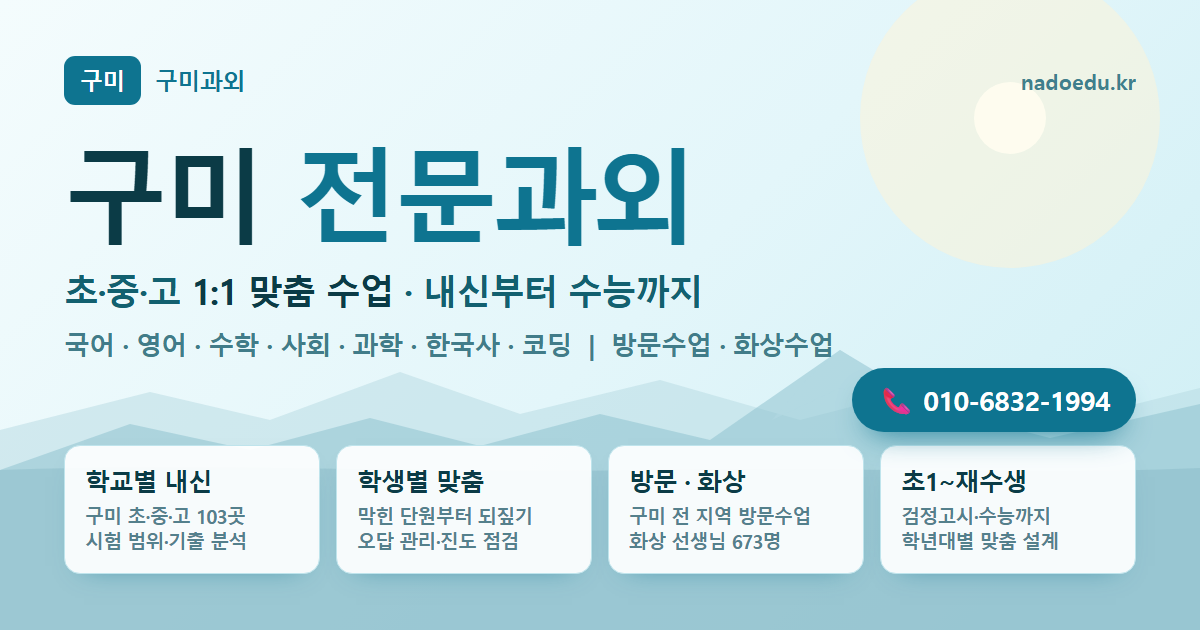
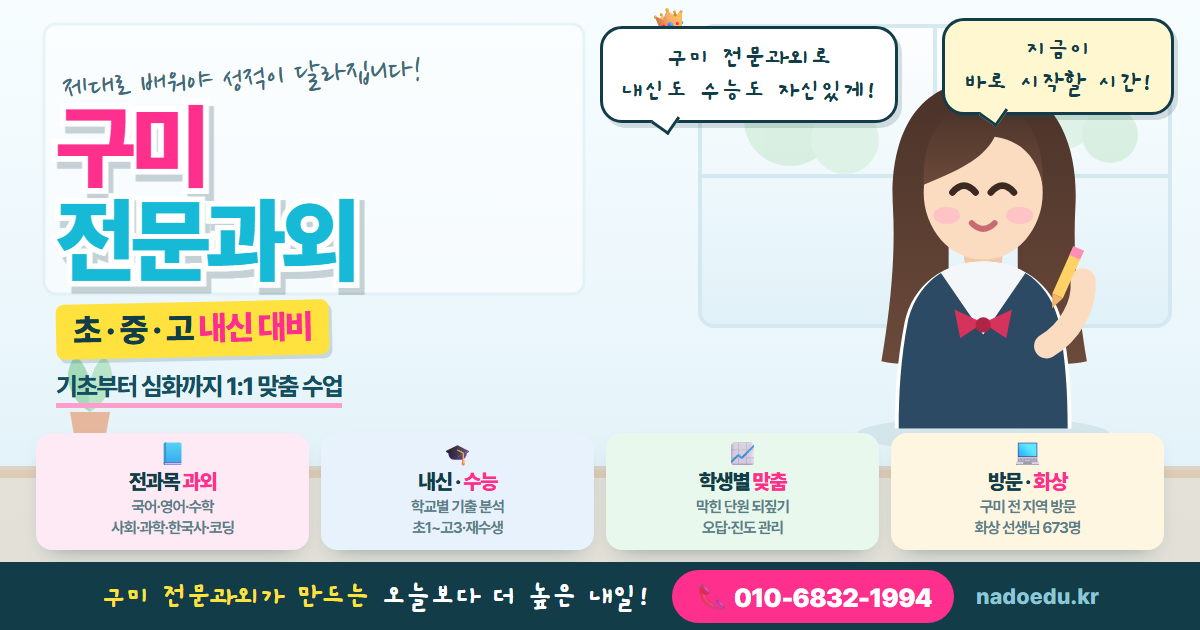
og 배너를 포스터 스타일로 교체
굵은 외곽선 타이틀·형광 밴드·손글씨 말풍선·파스텔 카드·하단 리본
구성으로 다시 만들었다(수학 한정이 아니라 구미 전문과외).
소스는 tools/og배너.html — 크롬 헤드리스로 캡처해서 og.png 를 만든다.

diff --git a/tools/og배너.html b/tools/og배너.html
@@ -1,0 +1,190 @@
+<!DOCTYPE html>
+<html lang="ko">
+<head>
+<meta charset="UTF-8" />
+<link rel="stylesheet" href="https://cdn.jsdelivr.net/gh/orioncactus/pretendard@v1.3.9/dist/web/static/pretendard.min.css" />
+<link href="https://fonts.googleapis.com/css2?family=Nanum+Pen+Script&family=Gaegu:wght@700&display=swap" rel="stylesheet" />
+<style>
+  *{margin:0;padding:0;box-sizing:border-box}
+  html,body{width:1200px;height:630px}
+  body{
+    font-family:"Pretendard","Malgun Gothic",sans-serif;
+    position:relative;overflow:hidden;background:#eef7fb;
+  }
+  .bg{position:absolute;inset:0}
+  .stage{position:relative;width:1200px;height:630px}
+
+  /* ── 타이틀 ── */
+  .title{position:absolute;left:56px;top:56px;width:600px}
+  .kicker{
+    font-family:"Nanum Pen Script",cursive;font-size:36px;color:#3f6b78;
+    transform:rotate(-3deg);margin-left:6px;line-height:1
+  }
+  .big{
+    font-size:92px;font-weight:900;letter-spacing:-4.5px;line-height:1.0;
+    margin-top:8px;
+    -webkit-text-stroke:11px #fff;paint-order:stroke fill;
+    filter:drop-shadow(5px 7px 0 rgba(18,60,72,.22));
+  }
+  .big .l1{color:#ff2f8e;display:block}
+  .big .l2{color:#16b9d6;display:block;margin-top:2px}
+  .band{
+    display:inline-block;margin-top:16px;padding:7px 17px 9px;
+    background:#ffe23d;border-radius:8px;transform:rotate(-1.2deg);
+    font-size:33px;font-weight:900;letter-spacing:-1.6px;color:#123c48;
+    box-shadow:3px 4px 0 rgba(18,60,72,.16);
+  }
+  .band b{color:#ff2f8e}
+  .sub{margin-top:14px;font-size:25px;font-weight:800;letter-spacing:-1.4px;color:#134f5e}
+  .sub .line{display:inline-block;border-bottom:5px solid #ff9ecb;padding-bottom:2px}
+
+  /* ── 말풍선 ── */
+  .bub{
+    position:absolute;background:#fff;border:3px solid #123c48;border-radius:22px;
+    padding:12px 18px;font-family:"Gaegu",cursive;font-weight:700;
+    font-size:27px;color:#123c48;line-height:1.24;text-align:center;
+    box-shadow:4px 5px 0 rgba(18,60,72,.16);
+  }
+  .bub::after{content:"";position:absolute;width:18px;height:18px;background:#fff;
+    border-right:3px solid #123c48;border-bottom:3px solid #123c48;transform:rotate(35deg)}
+  .b1{left:600px;top:26px}
+  .b1::after{left:52px;bottom:-11px}
+  .b2{right:26px;top:18px;background:#fff7cf}
+  .b2::after{background:#fff7cf;left:38px;bottom:-11px}
+  .crown{position:absolute;left:648px;top:-4px;font-size:30px;transform:rotate(-12deg)}
+
+  /* ── 카드 4개 ── */
+  .cards{position:absolute;left:36px;right:36px;bottom:80px;display:grid;
+    grid-template-columns:repeat(4,1fr);gap:12px}
+  .card{background:#fff;border-radius:16px;padding:10px 10px 11px;text-align:center;
+    box-shadow:0 10px 22px -14px rgba(18,60,72,.55)}
+  .c1{background:#fdeaf4}.c2{background:#e7f2fd}.c3{background:#e8f8ec}.c4{background:#fff6e2}
+  .card .ic{font-size:23px;line-height:1}
+  .card .t{margin-top:3px;font-size:21px;font-weight:900;letter-spacing:-1.3px;color:#123c48}
+  .card .t em{font-style:normal;color:#ff2f8e}
+  .card .d{margin-top:3px;font-size:15.5px;font-weight:700;letter-spacing:-.9px;color:#5b7f8a;line-height:1.35}
+
+  /* ── 하단 리본 ── */
+  .ribbon{position:absolute;left:0;right:0;bottom:0;height:68px;background:#123c48;
+    display:flex;align-items:center;justify-content:center;gap:22px}
+  .ribbon .slog{font-family:"Gaegu",cursive;font-weight:700;font-size:31px;color:#ffe23d;letter-spacing:-1px}
+  .ribbon .slog b{color:#fff}
+  .ribbon .tel{background:#ff2f8e;color:#fff;font-size:26px;font-weight:900;
+    padding:9px 22px;border-radius:999px;letter-spacing:-.6px}
+  .ribbon .dom{font-size:22px;font-weight:800;color:#8fc7d6;letter-spacing:.3px}
+</style>
+</head>
+<body>
+<div class="stage">
+<svg class="bg" viewBox="0 0 1200 630">
+  <defs>
+    <linearGradient id="room" x1="0" y1="0" x2="0" y2="1">
+      <stop offset="0" stop-color="#f7fdff"/><stop offset=".55" stop-color="#eaf6fb"/><stop offset="1" stop-color="#d9eef5"/>
+    </linearGradient>
+    <linearGradient id="win" x1="0" y1="0" x2="0" y2="1">
+      <stop offset="0" stop-color="#ffffff"/><stop offset="1" stop-color="#dff1f8"/>
+    </linearGradient>
+    <linearGradient id="hair" x1="0" y1="0" x2="0" y2="1">
+      <stop offset="0" stop-color="#4a3229"/><stop offset="1" stop-color="#6b4a3a"/>
+    </linearGradient>
+  </defs>
+  <rect width="1200" height="630" fill="url(#room)"/>
+
+  <!-- 창문 -->
+  <g opacity=".85">
+    <rect x="700" y="26" width="470" height="300" rx="14" fill="url(#win)" stroke="#cfe6ee" stroke-width="4"/>
+    <line x1="935" y1="26" x2="935" y2="326" stroke="#cfe6ee" stroke-width="4"/>
+    <line x1="700" y1="176" x2="1170" y2="176" stroke="#cfe6ee" stroke-width="4"/>
+  </g>
+  <!-- 창밖 초록 -->
+  <g opacity=".5">
+    <circle cx="790" cy="120" r="46" fill="#bfe6c8"/><circle cx="845" cy="140" r="34" fill="#cdecd4"/>
+    <circle cx="1060" cy="110" r="40" fill="#cdecd4"/><circle cx="1110" cy="135" r="28" fill="#bfe6c8"/>
+  </g>
+  <!-- 화이트보드 -->
+  <rect x="44" y="24" width="540" height="270" rx="12" fill="#ffffff" opacity=".55" stroke="#dcecf2" stroke-width="3"/>
+
+  <!-- 책상 -->
+  <rect x="0" y="470" width="1200" height="160" fill="#e6d3bd" opacity=".55"/>
+  <rect x="0" y="466" width="1200" height="12" fill="#d8c0a4" opacity=".6"/>
+
+  <!-- 화분 -->
+  <g transform="translate(60,352)" opacity=".75">
+    <path d="M30 60 C6 46 2 18 16 4 C30 16 34 40 30 60Z" fill="#8fd3a6"/>
+    <path d="M30 60 C54 46 58 18 44 4 C30 16 26 40 30 60Z" fill="#a9e0ba"/>
+    <path d="M10 60 h40 l-6 34 h-28Z" fill="#e6a37f"/>
+  </g>
+
+  <!-- 책 더미 -->
+  <g transform="translate(96,486)">
+    <rect x="0" y="40" width="150" height="20" rx="5" fill="#7fc4d6"/>
+    <rect x="8" y="20" width="150" height="20" rx="5" fill="#ffd166"/>
+    <rect x="2" y="0"  width="150" height="20" rx="5" fill="#ff8fb8"/>
+  </g>
+
+  <!-- ── 학생 일러스트 ── -->
+  <g transform="translate(868,58) scale(0.96)">
+    <!-- 그림자 -->
+    <ellipse cx="120" cy="392" rx="132" ry="18" fill="#123c48" opacity=".08"/>
+    <!-- 뒷머리 -->
+    <path d="M120 24 C46 24 22 88 26 156 C29 212 22 268 14 316 C40 322 66 318 84 308 L84 150 L156 150 L156 308 C176 318 202 322 228 316 C220 268 213 212 216 156 C220 88 194 24 120 24Z" fill="url(#hair)"/>
+    <!-- 목 -->
+    <rect x="100" y="182" width="40" height="42" rx="16" fill="#f2c9a8"/>
+    <!-- 교복 상의 -->
+    <path d="M120 212 C80 212 46 236 38 276 C30 318 28 350 28 386 L212 386 C212 350 210 318 202 276 C194 236 160 212 120 212Z" fill="#ffffff"/>
+    <path d="M120 212 C104 212 88 216 76 224 L120 286 L164 224 C152 216 136 212 120 212Z" fill="#f4f7fa"/>
+    <!-- 조끼 -->
+    <path d="M76 224 C60 234 48 250 42 272 C34 312 32 350 32 386 L208 386 C208 350 206 312 198 272 C192 250 180 234 164 224 L120 288Z" fill="#2c4a63"/>
+    <!-- 리본 -->
+    <path d="M120 276 l-30 -14 l6 30 Z" fill="#d6335c"/>
+    <path d="M120 276 l30 -14 l-6 30 Z" fill="#d6335c"/>
+    <circle cx="120" cy="278" r="8" fill="#b02546"/>
+    <!-- 얼굴 -->
+    <ellipse cx="120" cy="140" rx="62" ry="70" fill="#fbdcc0"/>
+    <!-- 앞머리 -->
+    <path d="M58 132 C56 74 84 46 120 46 C156 46 184 74 182 132 C176 104 160 86 132 82 C120 106 92 118 58 132Z" fill="url(#hair)"/>
+    <!-- 눈 -->
+    <path d="M88 140 q12 -14 24 0" stroke="#3a2a22" stroke-width="7" fill="none" stroke-linecap="round"/>
+    <path d="M128 140 q12 -14 24 0" stroke="#3a2a22" stroke-width="7" fill="none" stroke-linecap="round"/>
+    <!-- 볼 -->
+    <ellipse cx="82" cy="164" rx="14" ry="9" fill="#ffb3c8" opacity=".6"/>
+    <ellipse cx="158" cy="164" rx="14" ry="9" fill="#ffb3c8" opacity=".6"/>
+    <!-- 입 -->
+    <path d="M108 172 q12 12 24 0" stroke="#c76a72" stroke-width="6" fill="none" stroke-linecap="round"/>
+    <!-- 팔 + 연필 -->
+    <path d="M186 300 C210 286 226 258 224 232" stroke="#fbdcc0" stroke-width="26" fill="none" stroke-linecap="round"/>
+    <g transform="translate(214,196) rotate(24)">
+      <rect x="0" y="0" width="12" height="54" fill="#ffd166"/>
+      <path d="M0 54 h12 l-6 14Z" fill="#f2b56b"/>
+      <rect x="0" y="0" width="12" height="10" fill="#ff8fb8"/>
+    </g>
+  </g>
+</svg>
+
+<span class="crown">👑</span>
+
+<div class="bub b1">구미 전문과외로<br/>내신도 수능도 자신있게!</div>
+<div class="bub b2">지금이<br/>바로 시작할 시간!</div>
+
+<div class="title">
+  <div class="kicker">제대로 배워야 성적이 달라집니다!</div>
+  <div class="big"><span class="l1">구미</span><span class="l2">전문과외</span></div>
+  <div class="band">초 · 중 · 고 <b>내신 대비</b></div>
+  <div class="sub"><span class="line">기초부터 심화까지 1:1 맞춤 수업</span></div>
+</div>
+
+<div class="cards">
+  <div class="card c1"><div class="ic">📘</div><div class="t">전과목 <em>과외</em></div><div class="d">국어·영어·수학<br/>사회·과학·한국사·코딩</div></div>
+  <div class="card c2"><div class="ic">🎓</div><div class="t">내신 · <em>수능</em></div><div class="d">학교별 기출 분석<br/>초1~고3·재수생</div></div>
+  <div class="card c3"><div class="ic">📈</div><div class="t">학생별 <em>맞춤</em></div><div class="d">막힌 단원 되짚기<br/>오답·진도 관리</div></div>
+  <div class="card c4"><div class="ic">💻</div><div class="t">방문 · <em>화상</em></div><div class="d">구미 전 지역 방문<br/>화상 선생님 673명</div></div>
+</div>
+
+<div class="ribbon">
+  <span class="slog">구미 전문과외가 만드는 <b>오늘보다 더 높은 내일!</b></span>
+  <span class="tel">📞 010-6832-1994</span>
+  <span class="dom">nadoedu.kr</span>
+</div>
+</div>
+</body>
+</html>

diff --git a/CLAUDE.md b/CLAUDE.md
@@ -17,7 +17,7 @@
   - 홈 `index.html` — 과목 카드에 `구미 한국사과외` 추가, 그 아래 `구미 중간고사·기말고사와 방학 계획` 블록 추가(중간고사·기말고사·여름방학·겨울방학 키워드).
   - `online.html` 에 구미 읍·면·동 38곳 목록 추가(화상과외 주력 지역).
   - `centers.html` 에 와와학습코칭센터 옥계점 상세(인근 학교·아파트·학년별 코칭) 추가 — 출처는 사용자 소유 사이트 wawaedu.kr.
-  - `og.png` (1200×630 배너) 추가 + 전 페이지 `og:image`·`twitter:image`·`twitter:card=summary_large_image`. 배너 소스는 scratchpad 의 `og.html` 을 크롬 헤드리스로 캡처한 것 — 다시 만들려면 같은 방식으로.
+  - `og.png` (1200×630 배너) 추가 + 전 페이지 `og:image`·`twitter:image`·`twitter:card=summary_large_image`. 배너 소스는 `tools/og배너.html` — 고친 뒤 크롬 헤드리스로 다시 캡처한다: `chrome.exe --headless=new --window-size=1200,630 --virtual-time-budget=6000 --screenshot=og.png file:///.../og배너.html`
   - **메뉴에서 `상담신청` 삭제** — 오른쪽 상단 📞 상담신청 버튼과 중복이라 뺐다. 하단 고정 CTA·푸터 링크는 유지.
   - **`선생님` 메뉴 삭제** — 전 페이지 `nav-links` 에서 뺐다. 선생님은 화상과외 하위로 들어감: `online.html` 에 `화상과외 선생님 673명` 단락 + `teachers` 링크 추가, `teachers.html` 은 nav 에서 `화상과외` 를 active 로 표시. `teachers.html` 페이지 자체와 푸터 `선생님 찾기` 링크는 그대로 둠(sitemap 유지).
 - GA4 측정 ID 미발급. `analytics.js` 의 `GA_ID` 가 비어 있어 지금은 아무것도 보내지 않는다. 발급하면 그 한 줄만 채우고 `사이트관리/사이트대장.md` 10절에 적는다.
